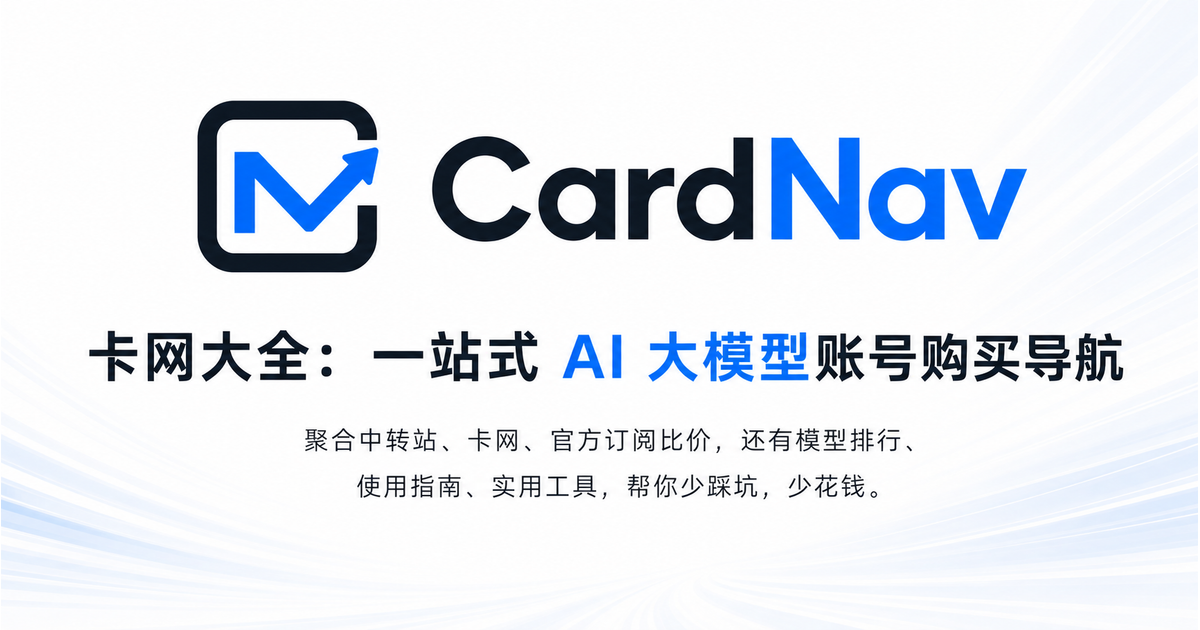
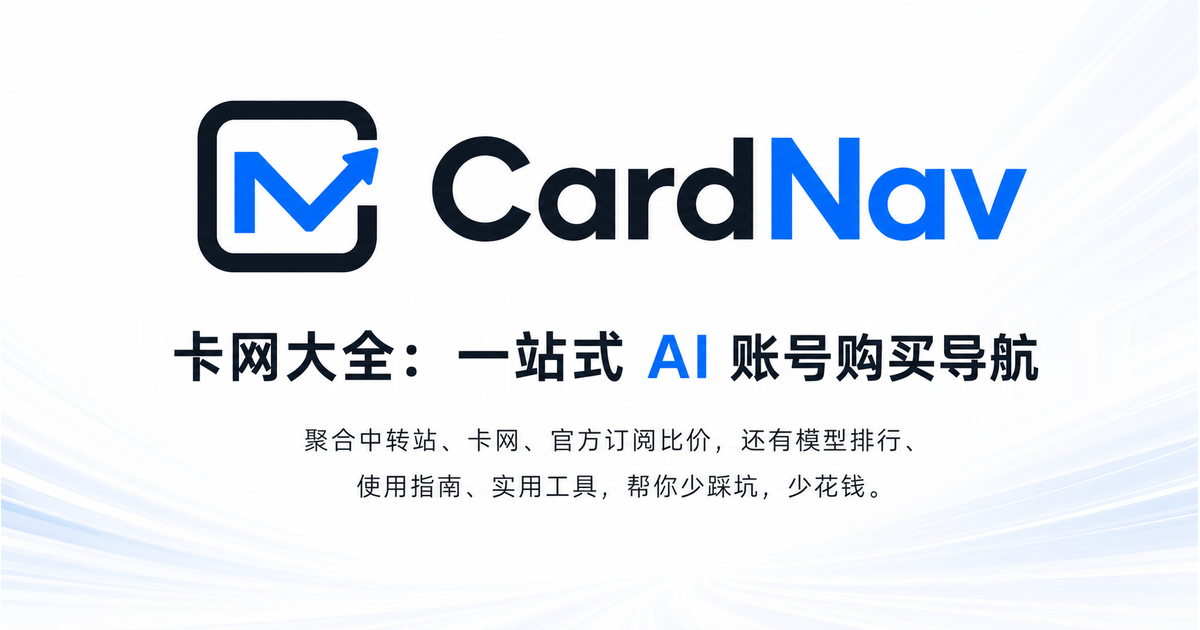
精简站点主介绍与分享文案，保留 SEO 关键词

Changed region(s): [[0.0617, 0.5127, 0.9558, 0.6032]]

diff --git a/src/i18n/zh.ts b/src/i18n/zh.ts
@@ -100,9 +100,9 @@ export const zhMessages = {
   site: {
     name: '卡网大全',
     domain: 'cardnav.xyz',
-    tagline: '一站式 AI 大模型账号购买导航',
+    tagline: '一站式 AI 账号购买导航',
     heroDescription:
-      '不知道 AI 账号去哪买便宜又靠谱？这里聚合 AI 中转站、卡网、官方订阅比价，还有模型排行、使用指南、实用工具，帮你少踩坑，少花钱。',
+      '不知道 AI 账号去哪买便宜又靠谱？这里聚合 AI 中转站、卡网、官方订阅比价，\n还有模型排行、使用指南、实用工具，帮你少踩坑，少花钱。',
   },
   nav: {
     footerResources: '找资源',
@@ -207,9 +207,9 @@ export const zhMessages = {
   home: {
     subscriptionPlans: '官方订阅套餐',
     modelLeaderboard: '模型排行榜',
-    seoTitle: '卡网大全 - 一站式 AI 大模型账号购买导航',
+    seoTitle: '卡网大全 - 一站式 AI 账号购买导航',
     seoDescription:
-      '卡网大全提供 AI 账号购买导航与卡网商品比价，汇集 ChatGPT、Claude、Gemini 等相关商品、API 中转站、官方订阅价格、模型排行和使用指南，帮助你比较方案与购买渠道。',
+      '卡网大全提供 AI 大模型账号购买导航与卡网商品比价，汇集 ChatGPT、Claude、Gemini 等相关商品、API 中转站、官方订阅价格、模型排行和使用指南，帮助你比较方案与购买渠道。',
     guideTitle: '不知道如何开始？点击进入指南',
     guideDescription: '从模型选择、使用方式到实践，先把思路理清楚。',
     guideSteps: [

diff --git a/README.md b/README.md
@@ -9,7 +9,7 @@
 </p>
 
 <p align="center">
-  <strong>一站式 AI 大模型账号购买导航。聚合 AI 中转站、卡网、官方订阅比价，还有模型排行、使用指南、实用工具，帮你少踩坑，少花钱。</strong>
+  <strong>一站式 AI 账号购买导航。聚合中转站、卡网与官方订阅比价，提供模型排行、使用指南和实用工具。</strong>
 </p>
 
 <p align="center">
@@ -44,7 +44,7 @@
 
 ## 产品简介
 
-卡网大全把 AI 大模型账号、官方订阅、中转站、卡网商家、模型排行、使用指南和实用工具放在同一个公开入口里，帮助用户更快完成选型、比价、搜索和购买前判断。
+卡网大全汇集 AI 账号、官方订阅、中转站与卡网商家信息，提供模型排行、使用指南和实用工具，帮助用户选型、比价和判断购买渠道。
 
 想了解卡网大全背后的故事，可以阅读 [关于卡网大全](https://cardnav.xyz/about)。
 
